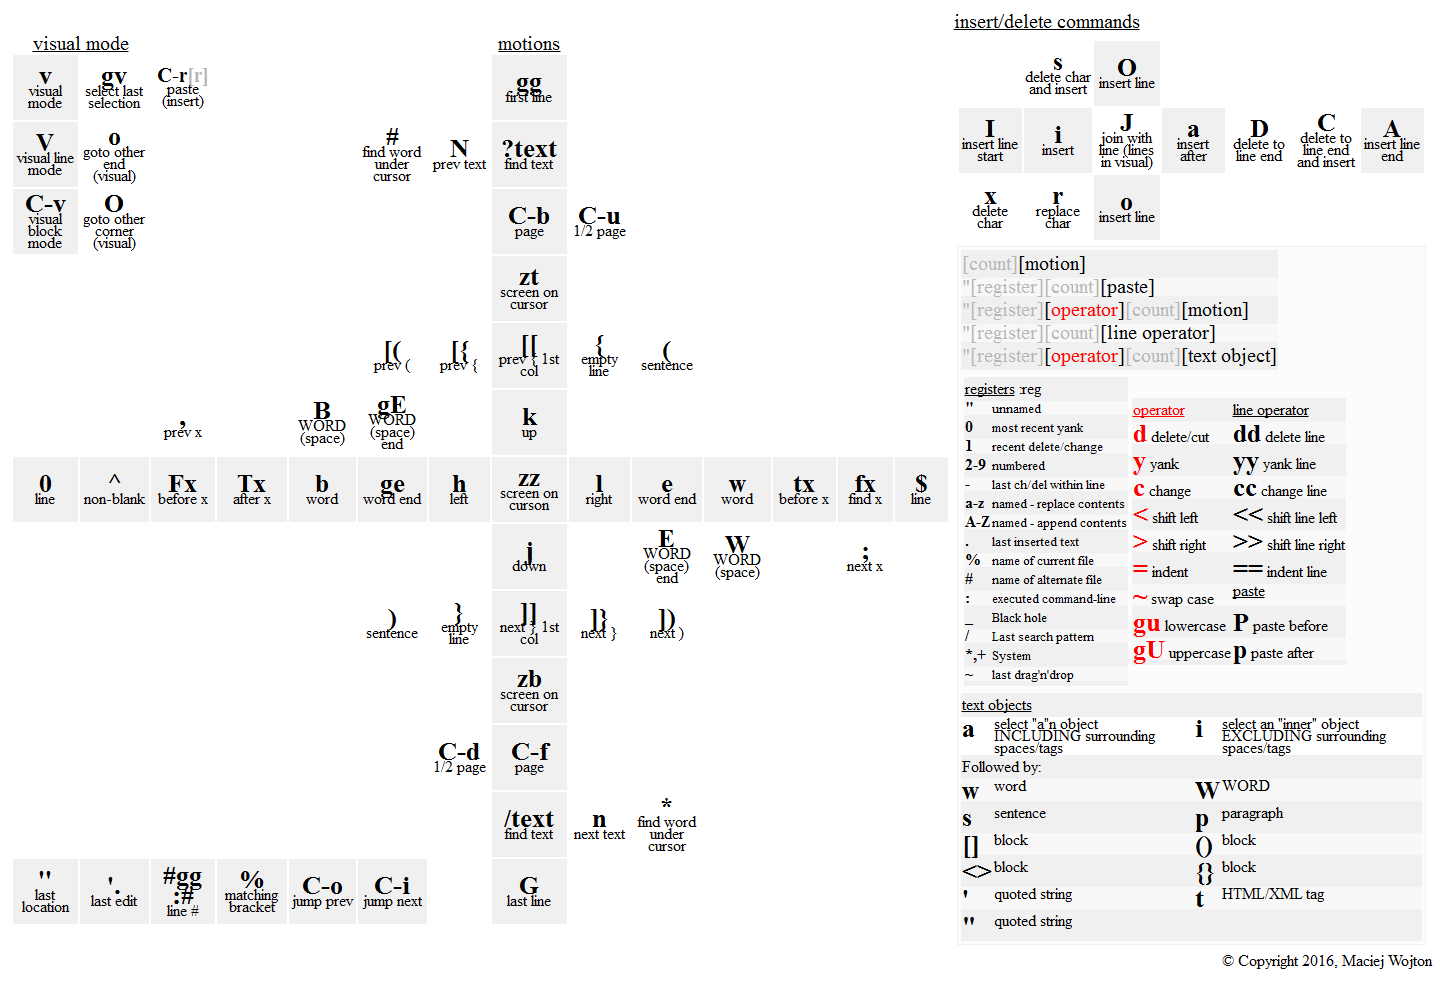
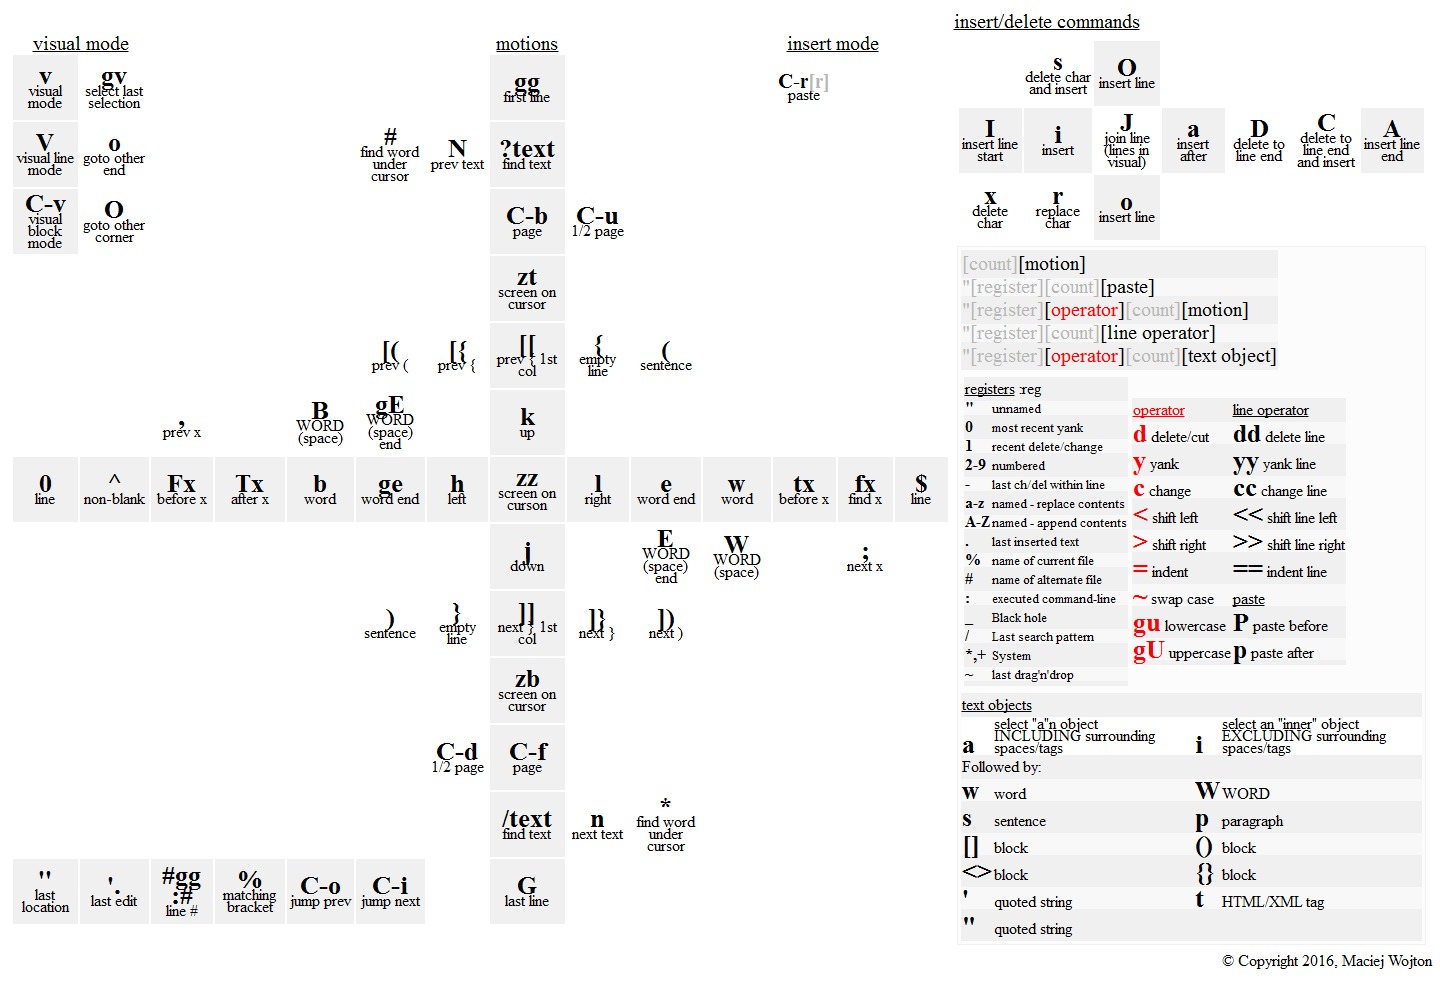
upd

diff --git a/vim_cheatsheet.html b/vim_cheatsheet.html
@@ -20,27 +20,33 @@
                             <td>
                                 <medium><u>motions</u></medium>
                             </td>
+                            <td></td>
+                            <td></td>
+                            <td></td>
+                            <td colspan=2>
+                                <medium><u>insert mode</u></medium>
+                            </td>
                         </tr>
                         <tr>
                             <td id="p01"><vimact>v</vimact><br/><small>visual mode</small></td>
                             <td><vimact>gv</vimact><br/><small>select last selection</small></td>
-                            <td>
-                                <vimactsmall>C-r<gray>[r]</gray></vimactsmall><br/><small>paste (insert)</small>
-                            </td>
+                            <td></td>
                             <td></td>
                             <td></td>
                             <td></td>
                             <td></td>
                             <td id="p01"><vimact>gg</vimact><br/><small>first line</small></td>
-                            <td></td><td></td>
-                            <td rowspan=6 colspan=4>
-
+                            <td></td>
+                            <td></td>
+                            <td></td>
+                            <td>
+                                <vimactsmall>C-r<gray>[r]</gray></vimactsmall><br/><small>paste</small>
                             </td>
                         </tr>
                         <tr>
                             <td id="p01"><vimact>V</vimact><br/><small>visual line mode</small></td>
                             <td>
-                                <vimact>o</vimact><br/><small>goto other end (visual)</small>
+                                <vimact>o</vimact><br/><small>goto other end</small>
                             </td>
                             <td></td>
                             <td></td>
@@ -52,7 +58,7 @@
                         <tr>
                             <td id="p01"><vimact>C-v</vimact><br/><small>visual block mode</small></td>
                             <td>
-                                <vimact>O</vimact><br/><small>goto other corner (visual)</small>
+                                <vimact>O</vimact><br/><small>goto other corner</small>
                             </td>
                             <td></td>
                             <td></td><td></td><td></td><td></td>
@@ -160,7 +166,7 @@
                                         <td id="p01"><vimact>I</vimact><br/><small>insert line start</small></td>
                                         <td id="p01"><vimact>i</vimact><br/><small>insert</small></td>
                                         <td>
-                                            <vimact>J</vimact><br/><small>join with line (lines in visual)</small>
+                                            <vimact>J</vimact><br/><small>join line (lines in visual)</small>
                                         </td>
                                         <td id="p01"><vimact>a</vimact><br/><small>insert after</small></td>
                                         <td><vimact>D</vimact><br/><small>delete to line end</small></td>
@@ -213,7 +219,7 @@
                                             </table>
                                         </td>
                                     </tr>
-                                    <tr id="grayback">
+                                    <tr>
                                         <td>
                                             <table>
                                                 <tr>
@@ -434,7 +440,7 @@
                                             </table>
                                         </td>
                                     </tr>
-                                    <tr id="grayback">
+                                    <tr>
                                         <td>
                                             <table class="fixedlist">
                                                 <tr>

diff --git a/cheat_sheets.css b/cheat_sheets.css
@@ -63,7 +63,7 @@ table.fixedlist tr {
 
 table.fixedlist td {
     text-align:left;
-    vertical-align:top;
+    vertical-align:bottom;
     line-height: 0.8;
 }
 
